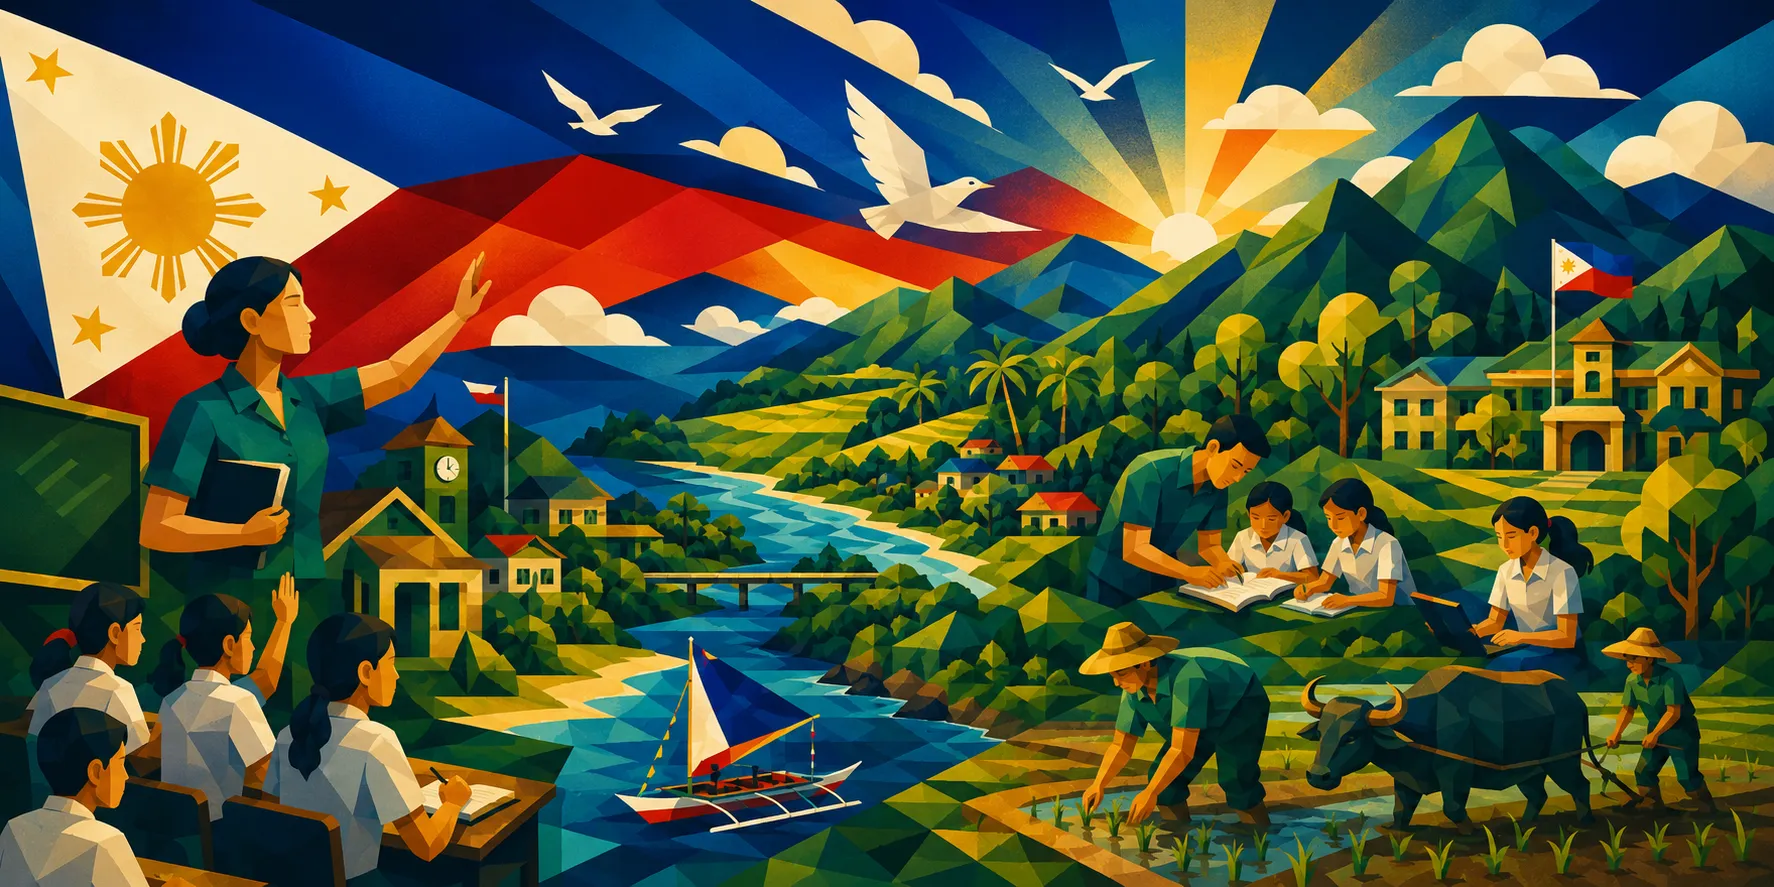
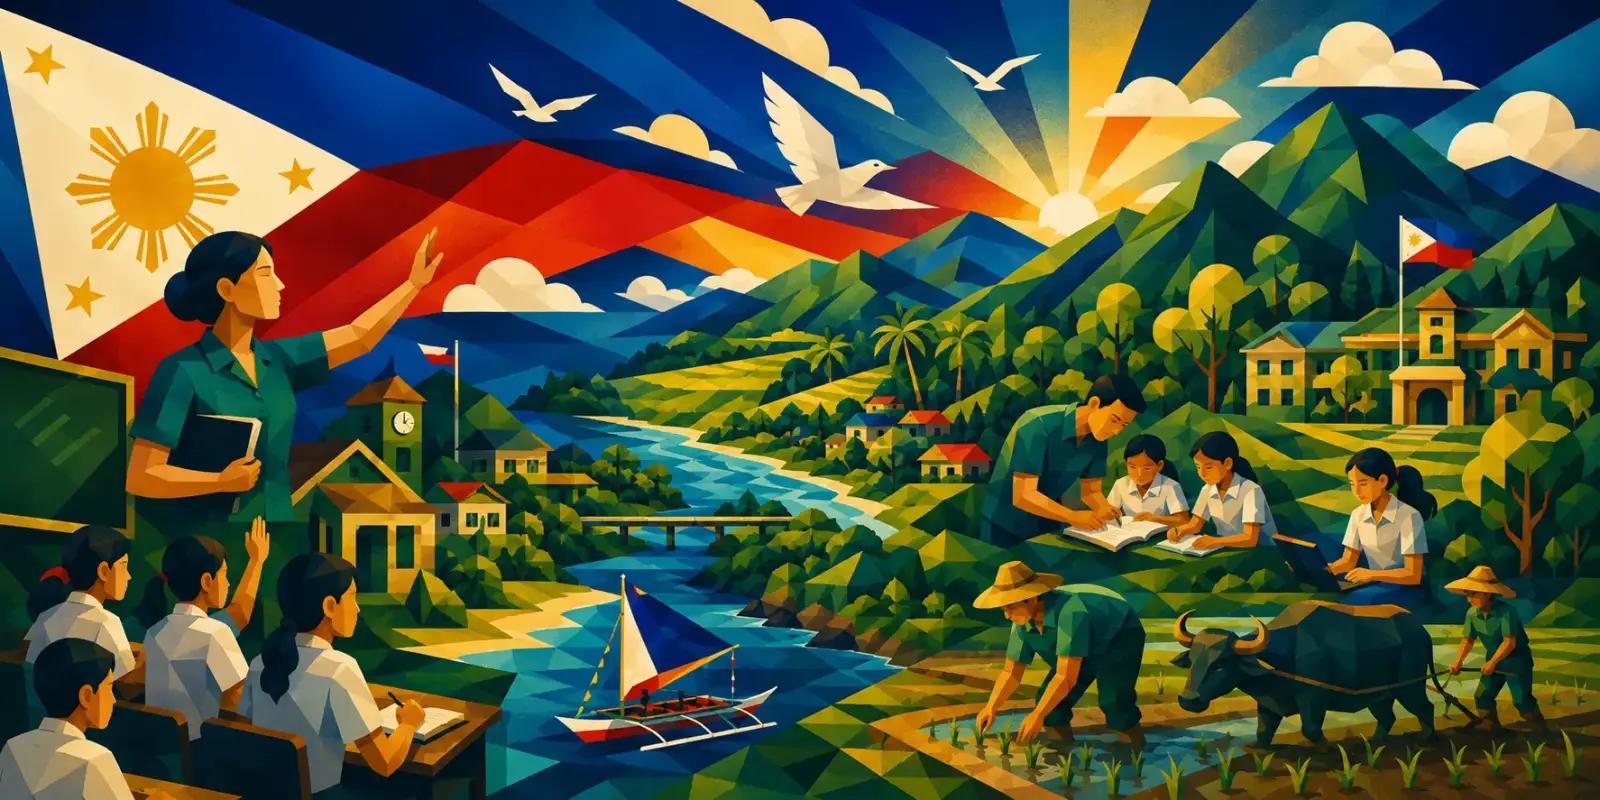
perf: cut Render bandwidth -- recompress images, cache headers, defer heavy libs
Optimize images (suggest icon, logo, backgrounds) with correct display-size
targets, saving ~2.6MB. Add public/_headers for long-lived immutable caching
on hashed assets. Defer xlsx, exceljs, docx, pptxgenjs, and Firebase
storage/functions SDKs behind dynamic import() so they only load on the
export click or feature use that actually needs them, instead of on every
page view -- shrinks SectionDetailPage from ~1MB to ~118KB and trims ~40KB
off the main entry chunk loaded on every visit.

Changed region(s): [[0.4062, 0.8125, 0.4688, 0.8438], [0.375, 0.875, 0.4375, 0.9062]]

diff --git a/src/services/db.js b/src/services/db.js
@@ -478,9 +478,9 @@ export async function getAllTeachers() {
 // Uses a secondary Firebase App instance so the admin stays logged in.
 
 export async function adminCreateUser(email, password, initialTokens) {
-  const { httpsCallable } = await import('firebase/functions');
-  const { functions }     = await import('../firebase');
-  const fn = httpsCallable(functions, 'adminCreateUserFn');
+  const { getFunctions, httpsCallable } = await import('firebase/functions');
+  const app = (await import('../firebase')).default;
+  const fn = httpsCallable(getFunctions(app, 'us-central1'), 'adminCreateUserFn');
   try {
     const result = await fn({ email, password, initialTokens });
     return result.data; // { uid, email }
@@ -499,11 +499,10 @@ export async function adminCreateUser(email, password, initialTokens) {
 export async function selfSignUp({ email, password, surname, givenName, mi, school, referredBy }) {
   // Registration is handled by a Cloud Function — validation runs server-side so it
   // cannot be bypassed by any client version or cached bundle.
-  const { httpsCallable } = await import('firebase/functions');
-  const { functions }     = await import('../firebase');
-  const { auth }          = await import('../firebase');
+  const { getFunctions, httpsCallable } = await import('firebase/functions');
+  const { default: app, auth } = await import('../firebase');
 
-  const registerFn = httpsCallable(functions, 'registerUser');
+  const registerFn = httpsCallable(getFunctions(app, 'us-central1'), 'registerUser');
   let result;
   try {
     result = await registerFn({ email, password, surname, givenName, mi, school, referredBy: referredBy || null });
@@ -612,9 +611,9 @@ export async function adminEqualizeTokens(adminUid, target = 30) {
 // ─── Admin: permanently delete a user account and all their data ─────────────
 
 export async function adminDeleteUser(targetUid) {
-  const { httpsCallable } = await import('firebase/functions');
-  const { functions } = await import('../firebase');
-  const fn = httpsCallable(functions, 'adminDeleteUser');
+  const { getFunctions, httpsCallable } = await import('firebase/functions');
+  const app = (await import('../firebase')).default;
+  const fn = httpsCallable(getFunctions(app, 'us-central1'), 'adminDeleteUser');
   const result = await fn({ uid: targetUid });
   return result.data;
 }
@@ -669,9 +668,9 @@ export async function adminSendPasswordReset(email) {
 }
 
 export async function adminSetFreeMode(enabled, note = '') {
-  const { httpsCallable } = await import('firebase/functions');
-  const { functions }     = await import('../firebase');
-  const fn = httpsCallable(functions, 'adminSetFreeMode');
+  const { getFunctions, httpsCallable } = await import('firebase/functions');
+  const app = (await import('../firebase')).default;
+  const fn = httpsCallable(getFunctions(app, 'us-central1'), 'adminSetFreeMode');
   const result = await fn({ enabled, note });
   return result.data;
 }
@@ -799,9 +798,9 @@ export async function refundTokens(uid, action, cost = TOKEN_COST) {
 // ─── MELC Validation ──────────────────────────────────────────────────────────
 
 export async function validateMelcCode({ subject, gradeLevel, quarter, melcCodes }) {
-  const { httpsCallable } = await import('firebase/functions');
-  const { functions }     = await import('../firebase');
-  const fn = httpsCallable(functions, 'validateMelcCode');
+  const { getFunctions, httpsCallable } = await import('firebase/functions');
+  const app = (await import('../firebase')).default;
+  const fn = httpsCallable(getFunctions(app, 'us-central1'), 'validateMelcCode');
   const result = await fn({ subject, gradeLevel, quarter, melcCodes });
   return result.data;
 }
@@ -809,9 +808,9 @@ export async function validateMelcCode({ subject, gradeLevel, quarter, melcCodes
 // ─── Shareable plan link ──────────────────────────────────────────────────────
 
 export async function createSharedPlan({ planType, ownerName, school, subject, gradeLevel, term, melc, preview }) {
-  const { httpsCallable } = await import('firebase/functions');
-  const { functions }     = await import('../firebase');
-  const fn = httpsCallable(functions, 'createSharedPlan');
+  const { getFunctions, httpsCallable } = await import('firebase/functions');
+  const app = (await import('../firebase')).default;
+  const fn = httpsCallable(getFunctions(app, 'us-central1'), 'createSharedPlan');
   const result = await fn({ planType, ownerName, school, subject, gradeLevel, term, melc, preview });
   return result.data; // { shareId }
 }

diff --git a/src/pages/dllGen/DLLOutputPage.jsx b/src/pages/dllGen/DLLOutputPage.jsx
@@ -2,16 +2,13 @@ import { useState } from 'react';
 import { useNavigate } from 'react-router-dom';
 import { useDLLStore } from '../../store/dllStore';
 import { useAuth } from '../../hooks/useAuth';
-import { downloadDLLDocx } from '../../services/dllDocx';
 import { useToast } from '../../context/ToastContext';
 import { useCotStore } from '../../store/cotStore';
 import { deductTokens, refundTokens, createSharedPlan } from '../../services/db';
 import { generateOutline, expandSlides, toExportSlides } from '../../services/presentationAI';
-import { exportToPptx } from '../../services/pptxExport';
 import { FileDown, RotateCcw, Printer, X, Sparkles, BookOpenCheck, Projector, Gamepad2, Loader2, Share2 } from 'lucide-react';
 import { genMatching, genJumbled, genTrueFalse, genCrossword, genWordHunt, genFillBlanks } from '../../services/gamificationAI';
 import { GAME_TYPES, gShuffle, gScramble, buildWordSearch, buildCrossword, GameWorksheetDisplay } from '../../components/GameWorksheet';
-import { downloadGameDocx } from '../../services/gamificationDocx';
 import AIOutputGuard from '../../components/AIOutputGuard';
 import ShareModal from '../../components/ShareModal';
 
@@ -116,6 +113,7 @@ export default function DLLOutputPage() {
   async function handleDownload() {
     setDownloading(true);
     try {
+      const { downloadDLLDocx } = await import('../../services/dllDocx');
       await downloadDLLDocx({ store, profile });
       addToast('Daily Lesson Log downloaded!', 'success');
     } catch (err) {
@@ -203,6 +201,7 @@ export default function DLLOutputPage() {
       });
 
       setPptPhase('Building your PPTX…');
+      const { exportToPptx } = await import('../../services/pptxExport');
       await exportToPptx({
         title:        topic || store.subject,
         subject:      store.subject,
@@ -299,6 +298,7 @@ export default function DLLOutputPage() {
     };
     setGameDownloading(true);
     try {
+      const { downloadGameDocx } = await import('../../services/gamificationDocx');
       await downloadGameDocx({ gameData: gameResult, lesson, inclKey: true, profile });
       addToast('Game worksheet downloaded!', 'success');
     } catch (err) {

diff --git a/src/pages/lessonGen/OutputPage.jsx b/src/pages/lessonGen/OutputPage.jsx
@@ -5,14 +5,11 @@ import { useAuth } from '../../hooks/useAuth';
 import { useLessonGenStore } from '../../store/lessonGenStore';
 import { useCotStore } from '../../store/cotStore';
 import { getTeacherProfile, deductTokens, refundTokens, createSharedPlan } from '../../services/db';
-import { downloadIlawDocx } from '../../services/docxExport';
 import { trackEvent } from '../../services/usageTracker';
 import { generateOutline, expandSlides, toExportSlides } from '../../services/presentationAI';
-import { exportToPptx } from '../../services/pptxExport';
 import { ArrowLeft, Download, Pencil, ClipboardList, Loader2, Sparkles, X, Presentation, Printer, Gamepad2, FileDown, Share2 } from 'lucide-react';
 import { genMatching, genJumbled, genTrueFalse, genCrossword, genWordHunt, genFillBlanks } from '../../services/gamificationAI';
 import { GAME_TYPES, gShuffle, gScramble, buildWordSearch, buildCrossword, GameWorksheetDisplay } from '../../components/GameWorksheet';
-import { downloadGameDocx } from '../../services/gamificationDocx';
 import AIOutputGuard from '../../components/AIOutputGuard';
 import ShareModal from '../../components/ShareModal';
 
@@ -234,6 +231,7 @@ export default function OutputPage() {
       });
 
       setPptPhase('Building your PPTX…');
+      const { exportToPptx } = await import('../../services/pptxExport');
       await exportToPptx({
         title,
         subject:      store.subject    || '',
@@ -328,6 +326,7 @@ export default function OutputPage() {
     };
     setGameDownloading(true);
     try {
+      const { downloadGameDocx } = await import('../../services/gamificationDocx');
       await downloadGameDocx({ gameData: gameResult, lesson, inclKey: true, profile: teacherProfile });
       addToast('Game worksheet downloaded!', 'success');
     } catch (err) {
@@ -425,6 +424,7 @@ export default function OutputPage() {
             onClick={async () => {
               setDocxLoading(true);
               try {
+                const { downloadIlawDocx } = await import('../../services/docxExport');
                 await downloadIlawDocx({
                   lessonMeta: {
                     lessonName:         store.lessonName,

diff --git a/src/pages/testBuilder/StepReview.jsx b/src/pages/testBuilder/StepReview.jsx
@@ -4,7 +4,6 @@ import { useAuth } from '../../hooks/useAuth';
 import { useToast } from '../../context/ToastContext';
 import { getTeacherProfile, deductTokens, refundTokens } from '../../services/db';
 import { generateItemsForCompetency } from '../../services/testBuilderItemsAI';
-import { buildTestPaperParts, downloadTestQuestionsDocx, downloadAnswerKeyDocx, downloadTosDocx } from '../../services/testBuilderDocx';
 import { COGNITIVE_LEVELS, deriveKeyStage, deriveHotsFloor, deriveLanguage, KEY_STAGE_LABELS, resolveItemCeiling } from '../../config/testBuilderConfig';
 import { totalDays } from '../../utils/testBuilderCalc';
 import { trackEvent, trackGeneration, startTimer } from '../../services/usageTracker';
@@ -109,6 +108,7 @@ export default function StepReview() {
         cursor = result.nextIndex;
       }
 
+      const { buildTestPaperParts } = await import('../../services/testBuilderDocx');
       setGeneratedParts(buildTestPaperParts(allItems, deriveLanguage(store.subject)));
       addToast(
         freeMode ? 'Test items generated! You can now download.' : `Test items generated! (${GENERATE_ITEMS_COST} tokens used) You can now download.`,
@@ -133,6 +133,7 @@ export default function StepReview() {
   async function handleDownload(kind) {
     setDownloadingKind(kind);
     try {
+      const { downloadTosDocx, downloadTestQuestionsDocx, downloadAnswerKeyDocx } = await import('../../services/testBuilderDocx');
       if (kind === 'tos') {
         await downloadTosDocx({ tos: store.tos, itemCeiling, meta: docMeta, profile: teacherProfile });
       } else if (kind === 'questions') {

diff --git a/src/services/storageService.js b/src/services/storageService.js
@@ -1,17 +1,13 @@
-import {
-  ref,
-  uploadBytesResumable,
-  getDownloadURL,
-  deleteObject,
-} from "firebase/storage";
-import { storage } from "../firebase";
-
 /**
  * Upload a file to Firebase Storage under teachers/{uid}/uploads/.
  * onProgress(pct) is called with 0-100 as the upload proceeds.
  * Returns { storagePath, downloadURL }.
  */
-export function uploadFile(uid, file, onProgress) {
+export async function uploadFile(uid, file, onProgress) {
+  const { getStorage, ref, uploadBytesResumable, getDownloadURL } = await import("firebase/storage");
+  const app = (await import("../firebase")).default;
+  const storage = getStorage(app);
+
   const safeName = `${Date.now()}-${file.name.replace(/[^a-zA-Z0-9._-]/g, "_")}`;
   const storagePath = `teachers/${uid}/uploads/${safeName}`;
   const storageRef = ref(storage, storagePath);
@@ -34,6 +30,9 @@ export function uploadFile(uid, file, onProgress) {
 }
 
 export async function deleteFile(storagePath) {
+  const { getStorage, ref, deleteObject } = await import("firebase/storage");
+  const app = (await import("../firebase")).default;
+  const storage = getStorage(app);
   const storageRef = ref(storage, storagePath);
   await deleteObject(storageRef);
 }

diff --git a/src/firebase.js b/src/firebase.js
@@ -1,8 +1,6 @@
 import { initializeApp } from "firebase/app";
 import { getAuth } from "firebase/auth";
 import { getFirestore } from "firebase/firestore";
-import { getStorage } from "firebase/storage";
-import { getFunctions } from "firebase/functions";
 
 export const firebaseConfig = {
   apiKey: "AIzaSyBAX_OQYqVOh7LmWDrOQubMYZR9zgnZF2M",
@@ -15,9 +13,14 @@ export const firebaseConfig = {
 
 const app = initializeApp(firebaseConfig);
 
-export const auth      = getAuth(app);
-export const db        = getFirestore(app);
-export const storage   = getStorage(app);
-export const functions = getFunctions(app, 'us-central1');
+export const auth = getAuth(app);
+export const db   = getFirestore(app);
+
+// `storage` and `functions` are intentionally NOT initialized here — both are
+// only needed by a handful of features (avatar upload, Gemini Cloud Function
+// calls). Eagerly exporting them from this file would pull the full
+// firebase/storage and firebase/functions SDKs into the main entry bundle,
+// since this module is imported on every page. Callers import them lazily
+// from 'firebase/storage' / 'firebase/functions' directly instead.
 
 export default app;

diff --git a/src/services/collabService.js b/src/services/collabService.js
@@ -3,9 +3,8 @@ import {
   query, orderBy, where, onSnapshot, serverTimestamp,
   updateDoc, arrayUnion, limit,
 } from 'firebase/firestore';
-import { ref, uploadBytes, getDownloadURL } from 'firebase/storage';
 import { updateProfile } from 'firebase/auth';
-import { db, storage, auth } from '../firebase';
+import app, { db, auth } from '../firebase';
 
 export const COMMUNITY_ID = 'katuro-community';
 
@@ -184,6 +183,8 @@ export function subscribeToCollabUnread(uid, cb) {
 // ── Profile photo ─────────────────────────────────────────────────────────────
 
 export async function uploadProfilePhoto(uid, file) {
+  const { getStorage, ref, uploadBytes, getDownloadURL } = await import('firebase/storage');
+  const storage = getStorage(app);
   const storageRef = ref(storage, `profilePhotos/${uid}/avatar.jpg`);
   const snap = await uploadBytes(storageRef, file, { contentType: file.type });
   const url  = await getDownloadURL(snap.ref);

diff --git a/src/services/geminiConfig.js b/src/services/geminiConfig.js
@@ -10,8 +10,7 @@
  */
 
 import { doc, getDoc, setDoc } from 'firebase/firestore';
-import { httpsCallable } from 'firebase/functions';
-import { db, functions, auth } from '../firebase';
+import app, { db, auth } from '../firebase';
 import { reportAIError } from './db';
 
 const CONFIG_REF  = doc(db, 'adminConfig', 'gemini');
@@ -127,7 +126,8 @@ export async function geminiWithRetry(url, opts, attempt = 0) {
  * something that won't clear up in the next few seconds.
  */
 export async function callGeminiProxy({ action, contents, temperature, maxTokens, responseMimeType, isRetry, unitCount }) {
-  const call = httpsCallable(functions, 'generateAI', { timeout: 150000 });
+  const { getFunctions, httpsCallable } = await import('firebase/functions');
+  const call = httpsCallable(getFunctions(app, 'us-central1'), 'generateAI', { timeout: 150000 });
   try {
     const res = await call({ action, contents, temperature, maxTokens, responseMimeType, isRetry, unitCount });
     return { text: res.data?.text ?? '', finishReason: res.data?.finishReason ?? null };

diff --git a/src/pages/ActionResearchPhase5.jsx b/src/pages/ActionResearchPhase5.jsx
@@ -10,7 +10,6 @@ import { doc, getDoc, updateDoc, serverTimestamp } from 'firebase/firestore';
 import { deductTokens, refundTokens } from '../services/db';
 import { generateDataCollection, generateResearchInstrument, THEME_LABELS } from '../services/actionResearchAI';
 import { trackEvent, trackGeneration, startTimer } from '../services/usageTracker';
-import { downloadResearchDocx } from '../services/actionResearchDocx';
 import ActionResearchShell  from '../components/ActionResearchShell';
 
 const sectionHead = { margin:'0 0 12px', fontSize:13, fontWeight:700, color:'#1a3d2b', display:'flex', alignItems:'center', gap:7 };
@@ -479,6 +478,7 @@ export default function ActionResearchPhase5() {
     if (!docData) return;
     setDownloading(true);
     try {
+      const { downloadResearchDocx } = await import('../services/actionResearchDocx');
       await downloadResearchDocx({ ...docData, dataCollection }, user.displayName ?? '');
     } finally { setDownloading(false); }
   }

diff --git a/src/pages/ActionResearchPhase6.jsx b/src/pages/ActionResearchPhase6.jsx
@@ -7,7 +7,6 @@ import { doc, getDoc, updateDoc, serverTimestamp } from 'firebase/firestore';
 import { deductTokens, refundTokens } from '../services/db';
 import { interpretFindings, THEME_LABELS } from '../services/actionResearchAI';
 import { trackEvent, trackGeneration, startTimer } from '../services/usageTracker';
-import { downloadResearchDocx } from '../services/actionResearchDocx';
 import ActionResearchShell  from '../components/ActionResearchShell';
 
 const sectionHead = { margin:'0 0 12px', fontSize:13, fontWeight:700, color:'#1a3d2b', display:'flex', alignItems:'center', gap:7 };
@@ -114,6 +113,7 @@ export default function ActionResearchPhase6() {
     if (!docData) return;
     setDownloading(true);
     try {
+      const { downloadResearchDocx } = await import('../services/actionResearchDocx');
       await downloadResearchDocx({ ...docData, rawData, findings }, user.displayName ?? '');
     } finally { setDownloading(false); }
   }

diff --git a/src/pages/ActionResearchPhase4.jsx b/src/pages/ActionResearchPhase4.jsx
@@ -7,7 +7,6 @@ import { doc, getDoc, updateDoc, serverTimestamp } from 'firebase/firestore';
 import { deductTokens, refundTokens } from '../services/db';
 import { generateActionPlan, THEME_LABELS } from '../services/actionResearchAI';
 import { trackEvent, trackGeneration, startTimer } from '../services/usageTracker';
-import { downloadResearchDocx } from '../services/actionResearchDocx';
 import ActionResearchShell  from '../components/ActionResearchShell';
 
 const sectionHead = { margin:'0 0 12px', fontSize:13, fontWeight:700, color:'#1a3d2b', display:'flex', alignItems:'center', gap:7 };
@@ -112,6 +111,7 @@ export default function ActionResearchPhase4() {
     if (!docData) return;
     setDownloading(true);
     try {
+      const { downloadResearchDocx } = await import('../services/actionResearchDocx');
       await downloadResearchDocx({ ...docData, actionPlan }, user.displayName ?? '');
     } finally { setDownloading(false); }
   }

diff --git a/src/features/katuroProtect/components/CaseDetail.jsx b/src/features/katuroProtect/components/CaseDetail.jsx
@@ -3,7 +3,6 @@ import { ArrowLeft, Clock, AlertCircle, Loader2, Archive, ArchiveRestore, Downlo
 import { useAuth } from '../../../hooks/useAuth';
 import { advanceCaseState, allowedNextStates, archiveCase, unarchiveCase } from '../services/caseService';
 import { subscribeSchoolProfile } from '../../../services/schoolFormsDb';
-import { downloadCaseReportDocx } from '../services/caseReportDocx';
 import { CASE_STATE_LABELS } from '../types';
 import NextMoveCard from './NextMoveCard';
 import EscalationBadge from './EscalationBadge';
@@ -30,6 +29,7 @@ export default function CaseDetail({ caseData, referralContacts, onBack, backLab
     setExporting(true);
     setError('');
     try {
+      const { downloadCaseReportDocx } = await import('../services/caseReportDocx');
       await downloadCaseReportDocx({ caseData, schoolProfile });
     } catch (err) {
       setError(err.message || 'Could not generate the Word document.');
